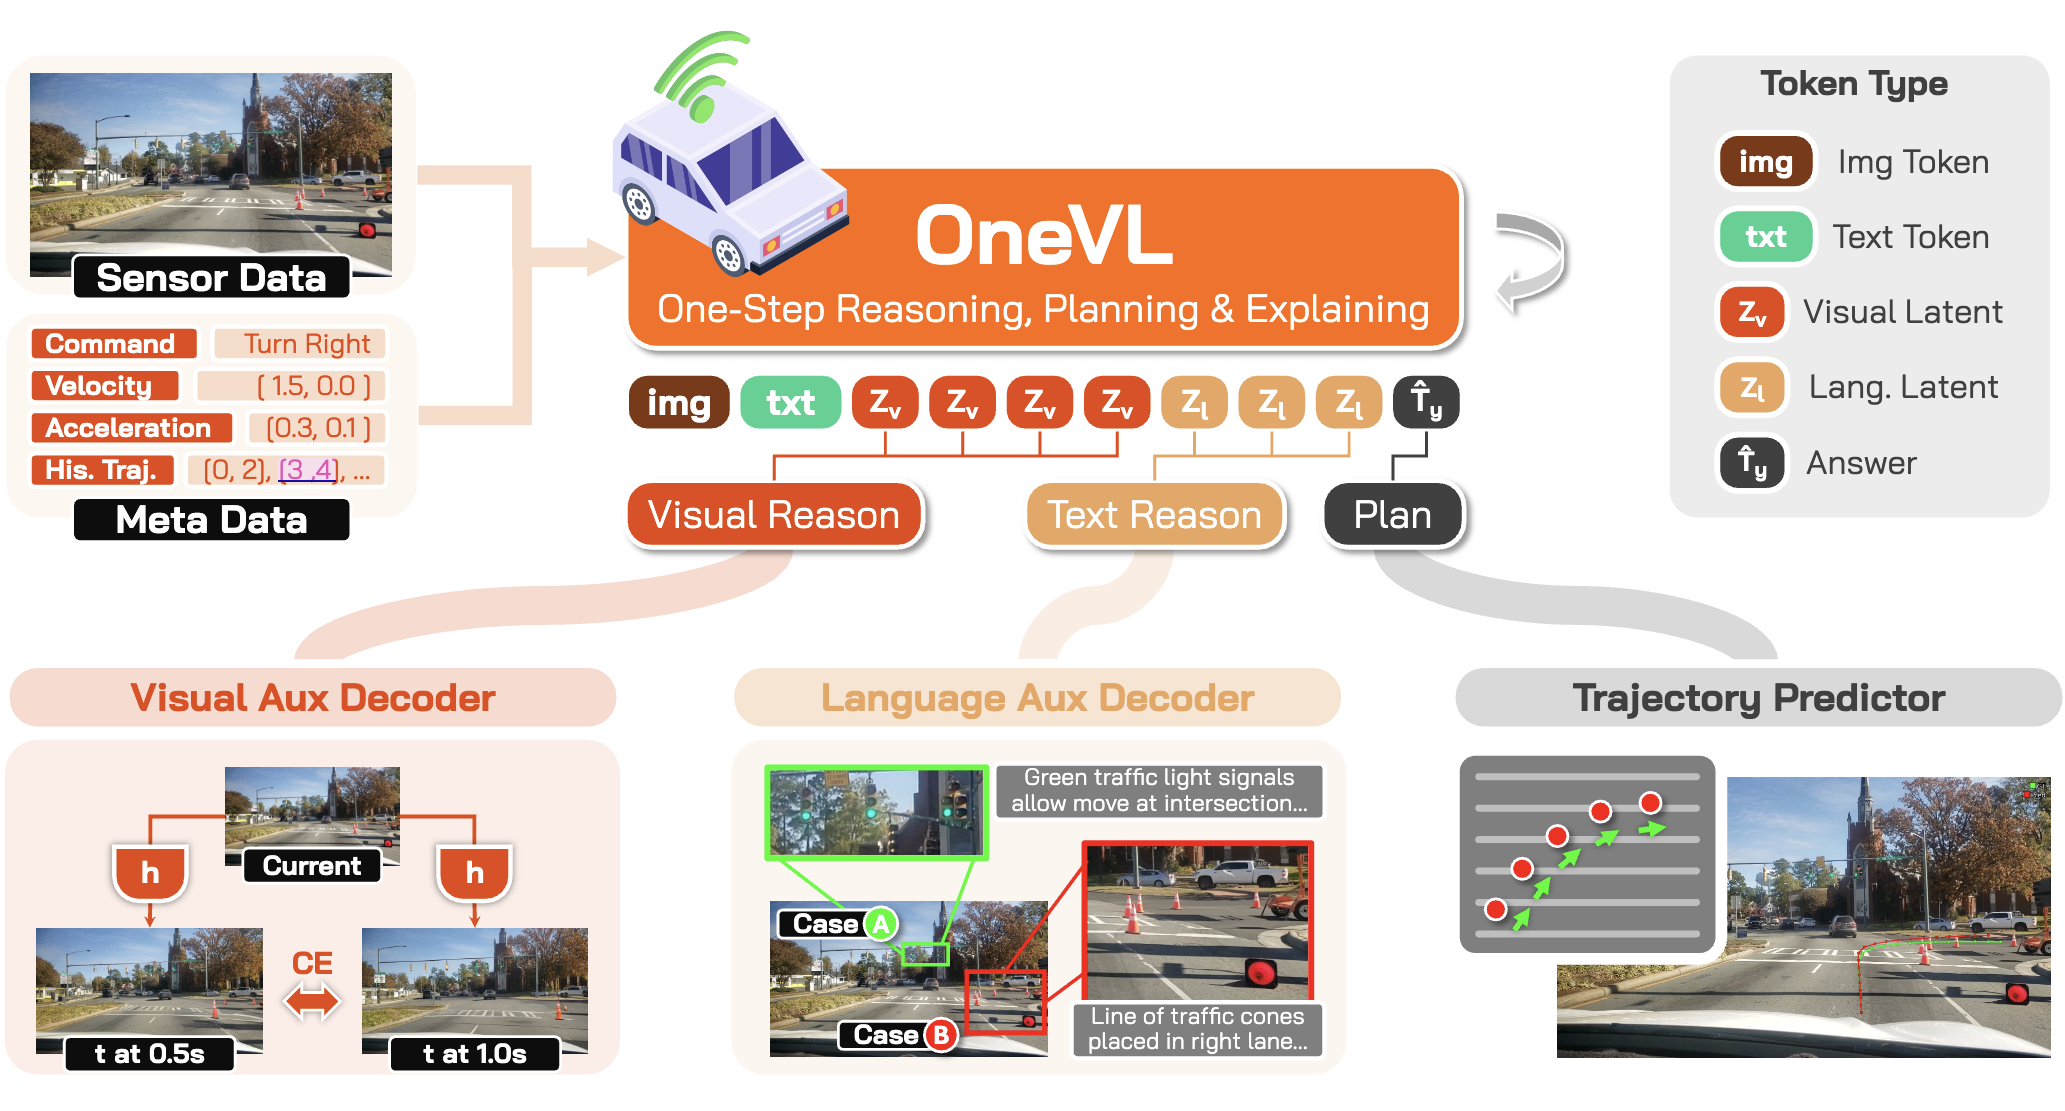
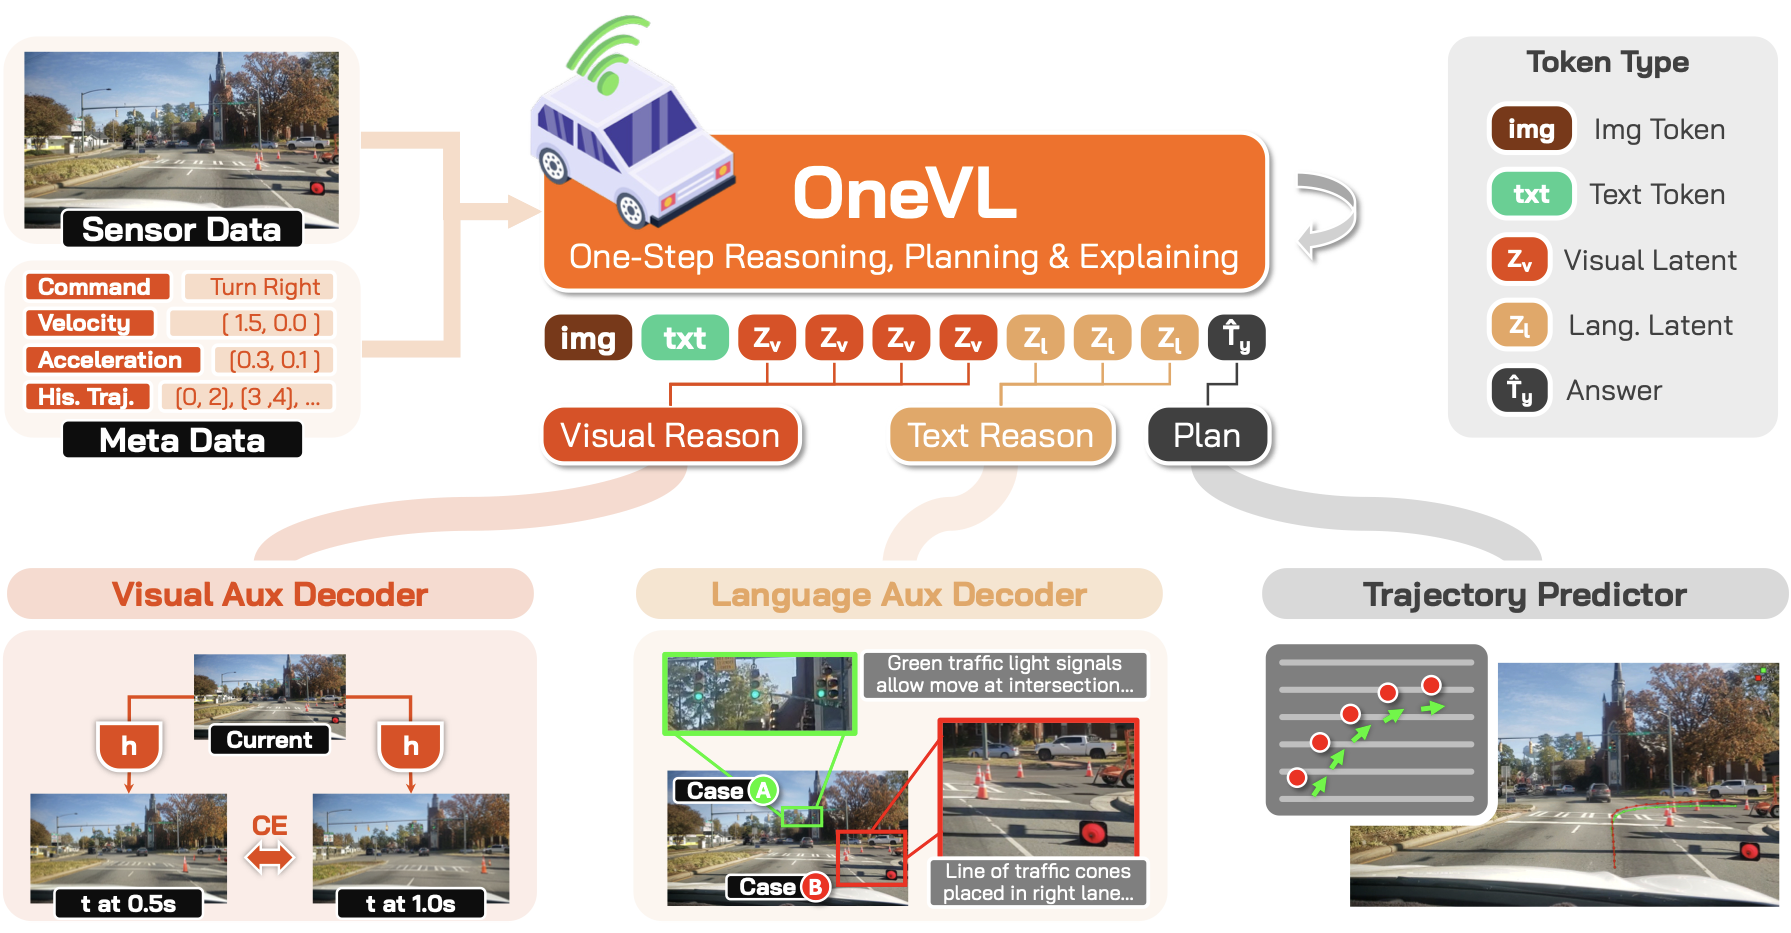
Add GitHub repo link and update architecture figure

diff --git a/OneVL/index.html b/OneVL/index.html
@@ -73,11 +73,11 @@
                             <img src="./assets_common/icons/pdf.png" style="height: 1.4em;">
                         </span><span>PDF</span>
                     </a>
-                    <!-- <a href="#" class="button" target="_blank">
+                    <a href="https://github.com/xiaomi-research/onevl" class="button" target="_blank">
                         <span class="icon is-small">
                             <img src="./assets_common/icons/github.png" style="height: 1.4em;">
                         </span><span>GitHub</span>
-                    </a> -->
+                    </a>
                     <a href="https://huggingface.co/papers/2604.18486" class="button" target="_blank">
                         <span class="icon is-small">
                             <img src="./assets_common/icons/hf.png" style="height: 1.5em;">
